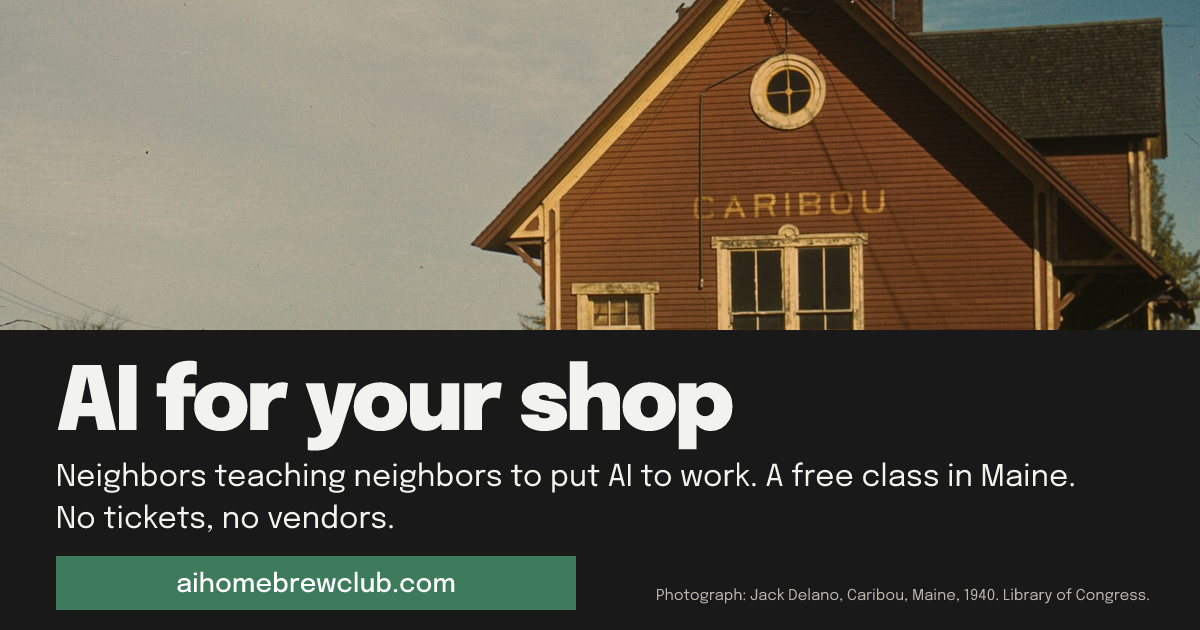
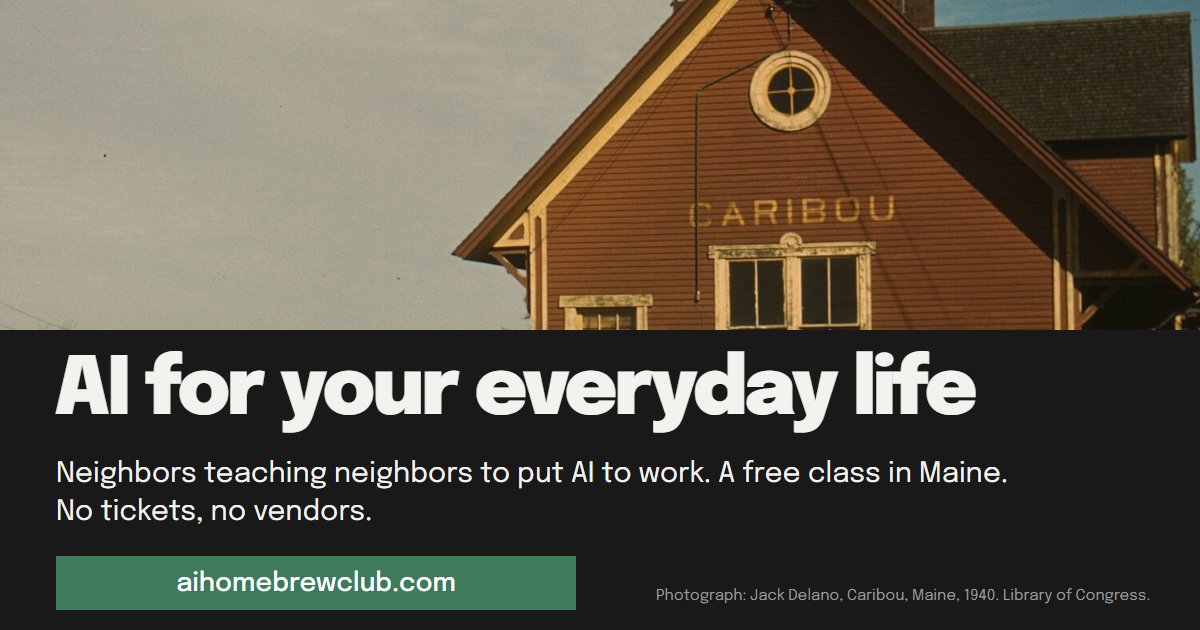
The shout is AI for your everyday life: the hero, the link preview and the six things
The share card now has a source (tools/share-card.html) so it can be re-rendered.

Changed region(s): [[0.0308, 0.0, 1.0, 0.8444], [0.555, 0.9349, 0.9558, 0.9651], [0.1542, 0.9048, 0.37, 0.9349]]

diff --git a/index.html b/index.html
@@ -6,7 +6,7 @@
 <meta name="viewport" content="width=device-width, initial-scale=1">
 <meta name="theme-color" content="#F2F2EF">
 <link rel="icon" href="assets/favicon.svg" type="image/svg+xml">
-<meta name="description" content="A free class in Waterville and Portland, Maine: bring one real task from your shop and leave with it done. Neighbors teaching neighbors to put AI to work. No tickets, no vendors.">
+<meta name="description" content="A free class in Waterville and Portland, Maine: bring one real task from your week and leave with it done. Neighbors teaching neighbors to put AI to work. No tickets, no vendors.">
 <meta property="og:title" content="The AI Homebrew Club">
 <meta property="og:description" content="Neighbors teaching neighbors to put AI to work. A free class in Waterville and Portland, Maine. No tickets, no vendors.">
 <meta property="og:image" content="https://aihomebrewclub.com/share-card.png">
@@ -27,7 +27,7 @@
 
   .poster{position:relative; display:grid; grid-template-rows:minmax(0,82fr) minmax(0,18fr); min-height:calc(100svh - 72px); overflow:clip; background:var(--field-4)}
   .poster .fieldy{position:relative; background:var(--field-4); color:var(--field-4-ink)}
-  .poster .shout{position:absolute; left:var(--margin); top:16%; margin-left:-.03em; font-size:var(--step-display); line-height:.84; letter-spacing:-.04em; font-weight:900; z-index:1; color:var(--field-4-ink)}
+  .poster .shout{position:absolute; left:var(--margin); top:12%; margin-left:-.03em; font-size:clamp(64px,10vw,160px); line-height:.84; letter-spacing:-.04em; font-weight:900; z-index:1; color:var(--field-4-ink)}
   .lines .line{display:block; overflow:hidden; padding-bottom:.08em; margin-bottom:-.08em}
   .lines [data-line]{display:block}
   .poster .scrap{position:absolute; left:61%; top:calc(82% - 34vw); width:30vw; aspect-ratio:3/4; margin:0; z-index:3; transform:rotate(5deg); overflow:clip; border-radius:50% 50% 0 0 / 38% 38% 0 0; background:#2A2A2A}
@@ -238,8 +238,9 @@
   <section class="poster" aria-label="The invitation">
     <div class="fieldy">
       <h1 class="shout lines">
-        <span class="line"><span data-line style="--i:0">AI for</span></span>
-        <span class="line"><span data-line style="--i:1">your shop</span></span>
+        <span class="line"><span data-line style="--i:0">AI for your</span></span>
+        <span class="line"><span data-line style="--i:1">everyday</span></span>
+        <span class="line"><span data-line style="--i:2">life</span></span>
       </h1>
       <figure class="scrap" data-open>
         <div class="pic"><img src="assets/caribou-maine.jpg" width="1920" height="1318" fetchpriority="high" decoding="async" alt="Farmers loading potato barrels onto trucks at the Caribou freight station, Aroostook County, Maine, October 1940"></div>
@@ -293,7 +294,7 @@
       <img src="assets/main-street-at-night-waterville-maine-87285.jpg" width="1920" height="1220" decoding="async" alt="Main Street, Waterville, at night, on a linen postcard from the 1930s or 40s: lit storefronts, parked cars and a full moon">
     </figure>
     <div class="say" data-reveal>
-      <h2 id="recH">Six things AI can do for your shop this week</h2>
+      <h2 id="recH">Six things AI can do for you this week</h2>
       <p>Real tasks from real shops, each about ten minutes to try. Every slip ends with a prompt you can steal: copy it, paste it, see what comes back.</p>
     </div>
     <ul class="slips">

diff --git a/tools/share-card.html b/tools/share-card.html
@@ -1,0 +1,33 @@
+<!DOCTYPE html>
+<html lang="en">
+<head>
+<meta charset="utf-8">
+<title>Share card &middot; The AI Homebrew Club</title>
+<meta name="robots" content="noindex">
+<style>
+  /* The source of share-card.png, the picture every link preview shows (1200 x 630): the 1940
+     scrap across the top, the shout on the charcoal band, where to go. Evergreen: no date, no town.
+     Render it with the site served from the repo root:
+       chrome --headless=new --hide-scrollbars --window-size=1200,630 --screenshot=share-card.png
+         http://localhost:8000/tools/share-card.html */
+  @font-face{font-family:'Epilogue';font-style:normal;font-weight:100 900;src:url(../assets/fonts/epilogue.woff2) format('woff2')}
+  html,body{margin:0}
+  .sc{position:relative; width:1200px; height:630px; overflow:hidden; background:#191919; color:#F2F2EF; font-family:'Epilogue','Helvetica Neue',Arial,sans-serif}
+  .sc .pic{position:absolute; left:0; top:0; width:1200px; height:330px; overflow:hidden}
+  .sc .pic img{position:absolute; left:-309px; top:-272px; width:1540px; height:auto; display:block}
+  .sc .shout{position:absolute; left:54px; top:352px; margin:0; font-weight:900; font-size:80px; line-height:1; letter-spacing:-.04em; white-space:nowrap}
+  .sc .lede{position:absolute; left:56px; top:456px; margin:0; font-weight:400; font-size:28px; line-height:1.35; max-width:1090px}
+  .sc .go{position:absolute; left:56px; bottom:20px; width:520px; height:54px; background:#3E7B5C; color:#fff; display:flex; align-items:center; justify-content:center; font-weight:500; font-size:26px}
+  .sc .credit{position:absolute; right:50px; bottom:26px; font-size:15px; color:#9A9A9A}
+</style>
+</head>
+<body>
+<div class="sc">
+  <div class="pic"><img src="../assets/caribou-maine.jpg" alt=""></div>
+  <p class="shout">AI for your everyday life</p>
+  <p class="lede">Neighbors teaching neighbors to put AI to work. A free class in Maine.<br>No tickets, no vendors.</p>
+  <div class="go">aihomebrewclub.com</div>
+  <div class="credit">Photograph: Jack Delano, Caribou, Maine, 1940. Library of Congress.</div>
+</div>
+</body>
+</html>
